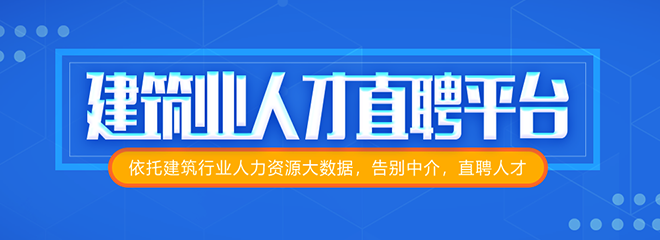
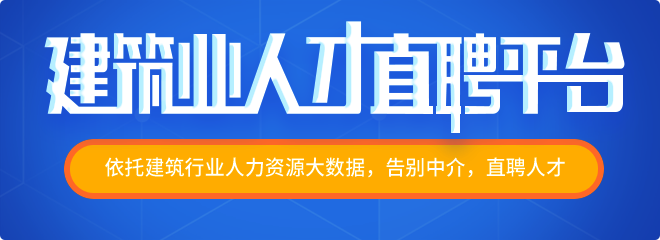
4.17

diff --git a/src/components/talent/int_job.vue b/src/components/talent/int_job.vue
@@ -1,6 +1,6 @@
 <template>
   <!--求职意向-->
-  <div class="int_job_all" :class="{stop_scroll: this.secondBox}">
+  <div class="int_job_all" :class="{stop_scroll: secondBox || doubleBox}">
     <!--信息列表-->
     <div class="int_job" v-show="this.int_job_edit">
       <div class="com_det_title">
@@ -14,7 +14,7 @@
             <p><span class="left_lab">求职类型</span> <span class="right_msg">{{intJobData.nature}}</span></p>
             <p><span class="left_lab">意向岗位</span> <span v-for="(item,index) in this.tranIntJob" :key="index" class="right_msg">{{item}}</span></p>
             <p><span class="left_lab">期望薪资</span> <span class="right_msg">{{intJobData.salary}}</span></p>
-            <p><span class="left_lab">工作地区</span> <span class="right_msg">{{(intJobData.province || '未知') + (intJobData.city || '')}}</span></p>
+            <p><span class="left_lab">工作地区</span> <span class="right_msg">{{(intJobData.province) + (intJobData.city=='未知'?'':intJobData.city)}}</span></p>
             <p><span class="left_lab">预计到岗时间</span> <span class="right_msg">{{intJobData.duty_time}}</span></p>
             <p><span class="left_lab">备注</span> <span class="right_msg">{{intJobData.remark}}</span></p>
           </div>
@@ -46,7 +46,7 @@
               <span class="edit_lab">期望薪资</span><span class="int_job_det fr" @click="salary">{{intJobData.salary || '请选择'}}<img src="/static/images/ic_right@2x.png" alt=""></span>
             </div>
             <div class="edit_cell">
-              <span class="edit_lab">工作地区</span><span class="int_job_det fr" @click="pro_city">{{(intJobData.province + intJobData.city || '') || '请选择'}}<img src="/static/images/ic_right@2x.png" alt=""></span>
+              <span class="edit_lab">工作地区</span><span class="int_job_det fr" @click="pro_city">{{(intJobData.province + (intJobData.city=='未知'?'':intJobData.city)) || '请选择'}}<img src="/static/images/ic_right@2x.png" alt=""></span>
             </div>
             <div class="edit_cell">
               <span class="edit_lab">预计到岗时间</span><span class="int_job_det fr" @click="arrive_time">{{intJobData.duty_time || '请选择'}}<img src="/static/images/ic_right@2x.png" alt=""></span>
@@ -106,7 +106,7 @@
           </div>
         </div>
         <div class="content">
-          <div class="filter_part1">
+          <div class="filter_part1 toTop" >
             <div class="pro_cell">
               <div v-for="(item,index) in ProData" :city-id="index" :key="index" :class="{pro_active:cityCode.province == index}" class=" filter_part1_cell  second" @click="WorkAreaCode">
                 {{item}}
@@ -149,7 +149,8 @@
             ArriveId: '',
             cityCode: {},
             jobClassify: {},
-            upSalary: 0
+            upSalary: 0,
+            midPro: 0
           }
       },
       methods: {
@@ -286,8 +287,10 @@
           this.cityCode.province = areaCode;
           this.cityData = tranCity(this.cityCode,true,2,'city');
           this.intJobData.province = tranProvince(this.cityCode.province,true,'',2);
-
+          this.cityCode.city = 0;
+          this.intJobData.city = '';
           // 滑动到上面
+          // window.scroll(0,0);
 
         },
         WorkCityCode(e) {

diff --git a/src/components/com_part/about_us.vue b/src/components/com_part/about_us.vue
@@ -8,7 +8,11 @@
       </div>
       <!--分类列表-->
       <div class="classify bacf">
-        <span v-for="(item,index) in List" :key="index" :class="{active: act == item.id}" @click="operat" :id-sign="item.id">{{item.column_name}}</span><span @click="operat" :class="{active: act == 1000}" id-sign="1000">用户指南</span><span @click="operat" :class="{active: act == 1001}" id-sign="1001">意见反馈</span>
+        <div class="classify_det" :style="com_style">
+          <v-touch v-on:swipeleft="leftChangeImg" height="44px" v-on:swiperight="rightChangeImg">
+            <span v-for="(item,index) in List" :key="index" :class="{active: act == item.id}" @click="operat" :id-sign="item.id">{{item.column_name}}</span><span @click="operat" :class="{active: act == 1000}" id-sign="1000">用户指南</span><span @click="operat" :class="{active: act == 1001}" id-sign="1001">意见反馈</span>
+          </v-touch>
+        </div>
       </div>
       <!--分类单元-->
       <div class="contact bacf" v-for="(item,index) in List" :key="index" v-show="act == item.id">
@@ -54,6 +58,8 @@
             },
             List: [],
             guideData: {},
+            com_style:{marginLeft: 0}
+
           }
       },
       methods: {
@@ -63,6 +69,15 @@
         operat(e){
           let sign = e.currentTarget.getAttribute('id-sign');
           this.act = sign;
+        },
+        leftChangeImg(e) {
+          // console.log(e);
+          e.preventDefault();
+          this.com_style.marginLeft = -e.distance + 'px';
+        },
+        rightChangeImg(e){
+          e.preventDefault();
+          this.com_style.marginLeft = e.distance + 'px';
         }
       },
       created() {
@@ -73,8 +88,7 @@
           this.$ajax.get('/news/user-guides')
             .then((res)=>{
               this.guideData = res.data;
-              console.log(this.guideData);
-            })
+            });
       }
     }
 </script>

diff --git a/static/js/common.js b/static/js/common.js
@@ -14,7 +14,7 @@
   // const file_server = 'https://file.qlzm.com.cn/'; // 正式服
 
   function file_upload() {
-    return 'file.wiiwork.com/v1/upload';  // 测试服
+    return 'http://file.wiiwork.com/v1/upload';  // 测试服
     // return 'https:file.qlzm.com.cn/v1/upload'; // 正式服
   }
 
@@ -364,10 +364,16 @@ function transGender(data,type) {
     {name: "男",id: 1},
     {name: "女",id: 2},
   ];
-  if (type == 3) {
-    return gender
-  } else {
-    data.gender = gender[data.gender]
+  for (let k = 0,len = gender.length;k < len;k++){
+    if (type == 3) {
+      return gender
+    } else if(type == 1){
+      if (data.gender == gender[k].id){
+        data.gender = gender[k].name;
+      }
+    }else {
+      data.gender = gender[data.gender]
+    }
   }
 }
 

diff --git a/src/components/talent/tal_bas_msg.vue b/src/components/talent/tal_bas_msg.vue
@@ -318,7 +318,7 @@
                 this.cityCode.province = res.data.base_info.province;
                 this.cityCode.city = res.data.base_info.city;
                 this.cityCode.area = res.data.base_info.area;
-                transGender(res.data.base_info,true);
+                transGender(res.data.base_info,1);
                 transEducation(res.data.base_info,1);
                 this.userMsg = res.data.base_info;
                 this.tranPro = tranProvince(this.userMsg.province,true,'',2);

diff --git a/src/components/index.vue b/src/components/index.vue
@@ -156,7 +156,7 @@
       data() {
           return{
             bannerList: {
-              0: "/static/images/banner03@2x.png",
+              0: "/static/images/banner01@2x.png",
               1: "/static/images/banner02@2x.png",
               2: "/static/images/banner03@2x.png",
             },

diff --git a/src/components/talent/tal_center.vue b/src/components/talent/tal_center.vue
@@ -152,7 +152,6 @@
 
         this.$ajax.get('/resume/userinfo',{params:{uid: userInfo.id}})
           .then((res)=>{
-            console.log(res.data);
             if(res.data.state != 400) {
               if (res.data.base_info.id_card != '') {
                 this.integrity += 15
